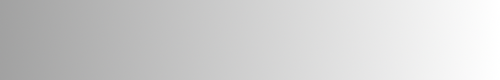
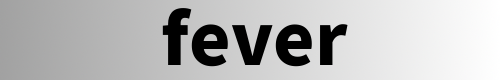
UI画像追加

Changed region(s): [[0.3, 0.1, 0.72, 0.85]]

diff --git a/Classes/unit/Player.cpp b/Classes/unit/Player.cpp
@@ -3,6 +3,7 @@
 Player::Player()
 {
 	_actData.cType = CharaType::PLAYER;
+	enemyKill = false;
 }
 
 Player::~Player()
@@ -52,5 +53,15 @@ void Player::update(float d)
 	{
 		lpScoreMng.PlusFeverCnt(-1);
 	}
+}
+
+bool Player::GetEnemyKill()
+{
+	return enemyKill;
+}
+
+void Player::SetEnemyKill(bool flag)
+{
+	enemyKill = flag;
 }
 

diff --git a/Classes/manager/EffManager.cpp b/Classes/manager/EffManager.cpp
@@ -45,8 +45,6 @@ void EffManager::SetEffect(const char* pass, const char* layer, bool mask, cocos
 
 	if (effect != nullptr)
 	{
-		//effect->retain();
-
 		auto emitter = efk::EffectEmitter::create(effectMng.get());
 		emitter->setEffect(effect);
 		emitter->setPlayOnEnter(true);

diff --git a/Classes/manager/ResourceManager.cpp b/Classes/manager/ResourceManager.cpp
@@ -53,4 +53,6 @@ void ResourceManager::LoadInit()
 	SetID("feverBase", "image/UI/BarBase.png");
 	SetID("feverBar", "image/UI/Bar.png");
 	SetID("feverFront", "image/UI/BarFront.png");
+	SetID("fever", "image/UI/fever.png");
+	SetID("fLine", "image/UI/line.png");
 }

diff --git a/Classes/manager/AudioManager.cpp b/Classes/manager/AudioManager.cpp
@@ -58,7 +58,7 @@ void AudioManager::SetSound(const std::string name)
 	auto sound = audioList[name];
 	if (sound != nullptr)
 	{
-		sound->play();
+		//sound->play();
 	}
 }
 
